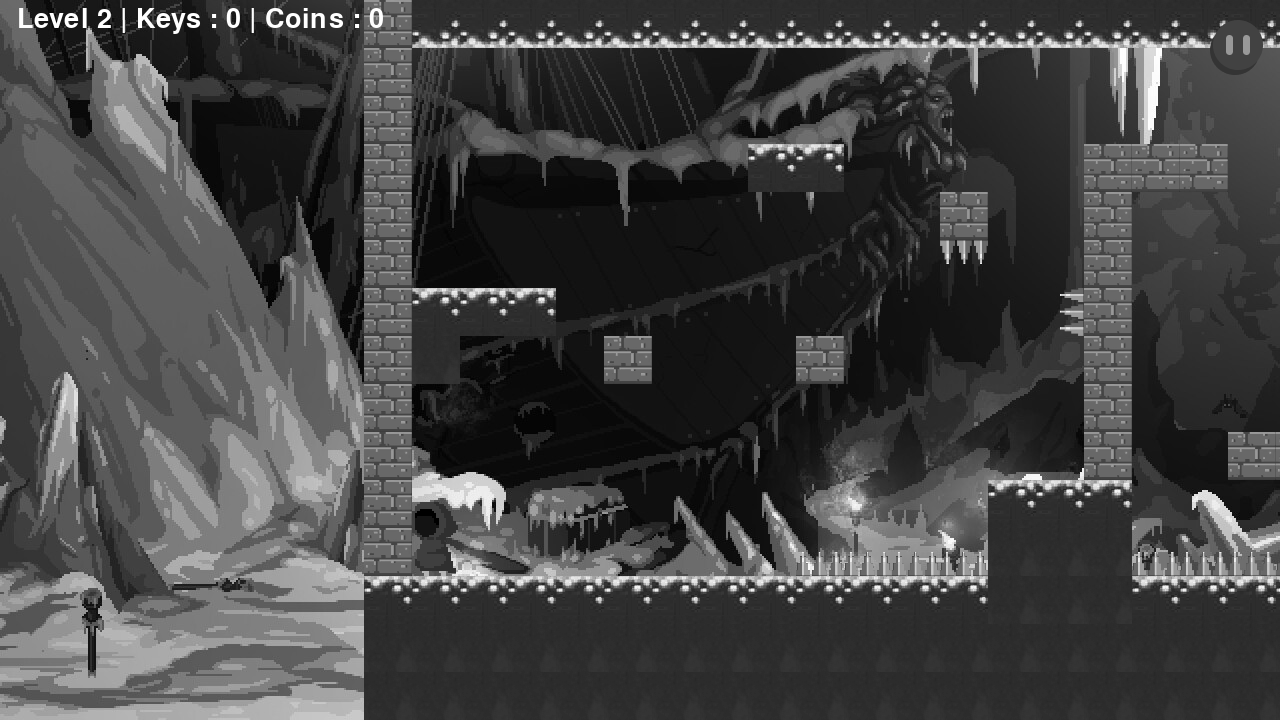
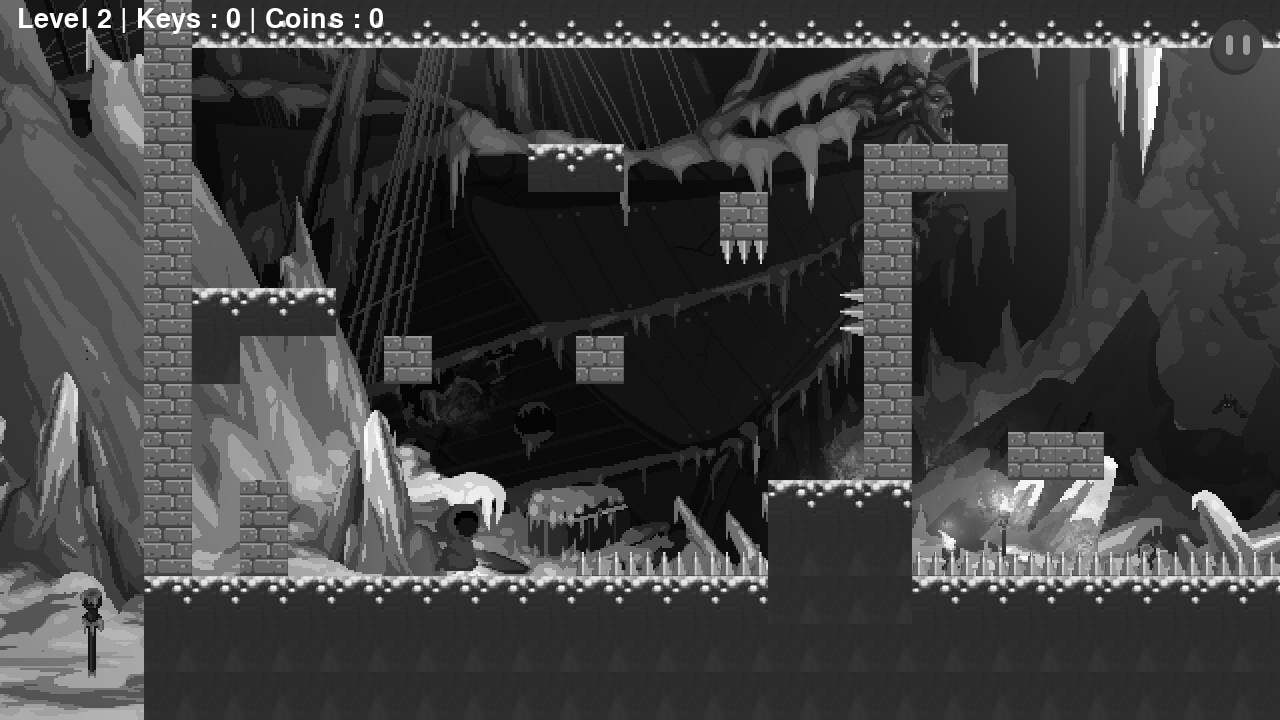
Mobs

diff --git a/tile.py b/tile.py
@@ -1,5 +1,6 @@
 from re import S
 import pygame
+from settings import import_folder
 
 #Création des différents type de block avec des class
 
@@ -197,7 +198,7 @@ class Tile_door(pygame.sprite.Sprite):
 class Mob(pygame.sprite.Sprite):
     def __init__(self, pos, size):
         super().__init__()
-        self.image = pygame.image.load("./alien/left.png")
+        self.image = pygame.image.load("./alien/right.png")
         self.rect = self.image.get_rect(topleft = pos)
         self.damage = True
         self.climb = False
@@ -205,6 +206,35 @@ class Mob(pygame.sprite.Sprite):
         self.door = False
         self.open = False
         self.mob = True
+        self.speed = 5
+        self.move = 0
+        self.animation = 0
+        self.right = True
+        
+        self.full_path = './alien/slime'
+        print(self.full_path)
+        self.animations = import_folder(self.full_path)
         
     def update(self, x_shift):
-        self.rect.x += x_shift
+        self.rect.x += self.speed + x_shift
+        if self.move < 30:
+            self.move += 1
+        else:
+            self.speed = self.speed * -1
+            self.move = 0
+            if self.right:
+                self.right = False
+            else:
+                self.right = True
+            
+        if self.animation < len(self.animations):
+            image = self.animations[int(self.animation)]
+            self.animation += 0.15
+            if self.right: #si le joueur est tourné vers la droite, retourner l'image
+                flipped_image = pygame.transform.flip(image, True, False)
+                self.image = flipped_image
+            else:
+                self.image = image
+                
+        else:
+            self.animation = 0

diff --git a/settings.py b/settings.py
@@ -33,8 +33,8 @@ levelmap=[  [ #le joueur voit par paquet de dix lignes
 '   W                                                    W→                    W                 W                              W',
 '   W                                                    W→                    W                 W                              W',
 '   W     P                             W                W→                    W    WWWW         W                              W',
-'   W                                   W                W→             W   W  W                 D              M M M     F     W',
-'   W     L                W      L     W       L        W↑↑↑↑↑↑        W↑↑↑W↑↑W   ↑↑↑↑↑↑↑↑↑↑         L                         W',
+'   W             W                     W                W→             W   W  W                 D                        F     W',
+'   W     L       W        W      L     W       L        W↑↑↑↑↑↑        W↑↑↑W↑↑W   ↑↑↑↑↑↑↑↑↑↑         L       M M M             W',
 '   GGGGGGGGGGGGGGGGGGGGGGGGGGGGGGGGGGGGGGGGGGGGGGGGGGGGGGGGGGGGGGGGGGGGGGGGGGGGG  GGGGGGGGGG  GGGGGGGGGGGGGGGGGGGGGGGGGGGGGGGGGGGGGGGGGGGGGGGGGGGGGGGGG',
 '   EEEEEEEEEEEEEEEEEEEEEEEEEEEEEEEEEEEEEEEEEEEEEEEEEEEEEEEEEEEEEEEEEEEEEEEEEEEEE       K      EEEEEEEEEEEEEEEEEEEEEEEEEEEEEEEEEEEEEEEEEEEEEEEEEEEEEEEEE',
 '   EEEEEEEEEEEEEEEEEEEEEEEEEEEEEEEEEEEEEEEEEEEEEEEEEEEEEEEEEEEEEEEEEEEEEEEEEEEEE              EEEEEEEEEEEEEEEEEEEEEEEEEEEEEEEEEEEEEEEEEEEEEEEEEEEEEEEEEE',
